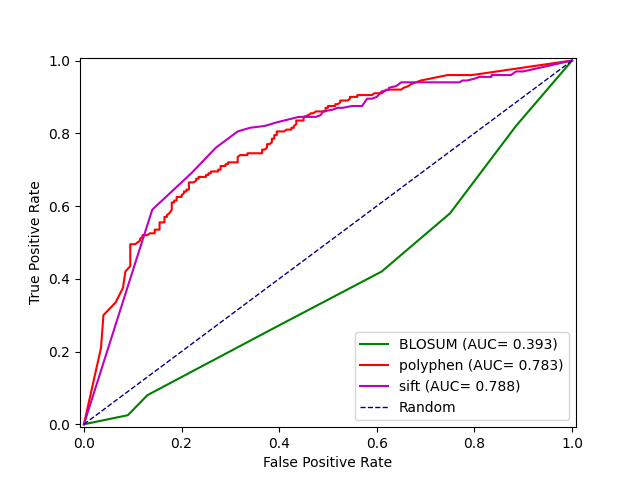
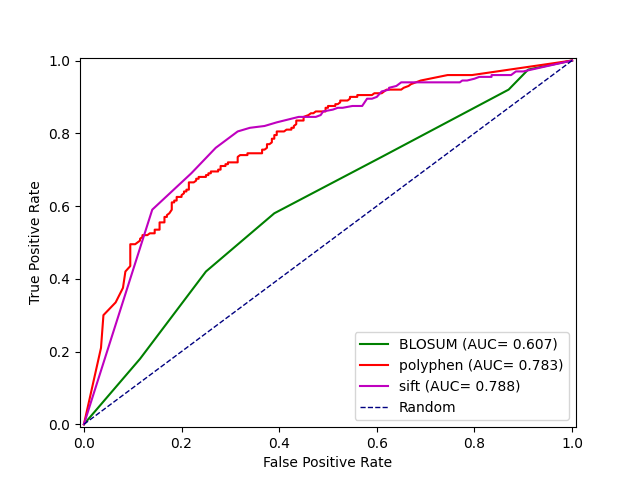
ROC plots revised

diff --git a/skeleton_script_create_roc_plot.py b/skeleton_script_create_roc_plot.py
@@ -168,10 +168,10 @@ def calculate_coordinates(predictor_score_dict, benchmark_dict, out_filepath):
     # Use the following if-statement and replace the question mark with the type of the predictor.
     # It will put the ROC curve at the correct side of the diagonal line.
 
-    if type_predictor == 'sift' :
-        sorted_score_hgvs_pairs = sorted(score_hgvs_pairs)
+    if type_predictor == 'polyphen' :
+        sorted_score_hgvs_pairs = sorted(score_hgvs_pairs,reverse=True)
     else:
-        sorted_score_hgvs_pairs = sorted(score_hgvs_pairs, reverse=True)
+        sorted_score_hgvs_pairs = sorted(score_hgvs_pairs)
 
     #########################
     ###  END CODING HERE  ###
@@ -232,8 +232,7 @@ def calculate_coordinates(predictor_score_dict, benchmark_dict, out_filepath):
         if i in index_prebreakpoint_score:
             tpr.append(num_pathogenic / total_pathogenic)
             fpr.append(num_benign / total_benign)   
-
-        coordinate_score.append(score)
+            coordinate_score.append(score)
 
         #########################
         ###  END CODING HERE  ###

diff --git a/run.md b/run.md
@@ -1,1 +1,3 @@
 data/vep/HGVS_2014_VEP_baseline.tsv data/BLOSUM62.txt -o data/vep/HGVS_2014_baseline_scores.tsv 
+-ipred data/vep/HGVS_2014_baseline_scores.tsv -ibench data/HGVS_2014_benchmark.tsv -color -o output/ROC_plot_baseline_test.png
+-ipred data/vep/HGVS_2014_baseline_scores.tsv -ipred data/vep/HGVS_2014_polyphen_scores.tsv -ipred data/vep/HGVS_2014_sift_scores.tsv -ibench data/HGVS_2014_benchmark.tsv -o output/ROC_plot_all_test.png
